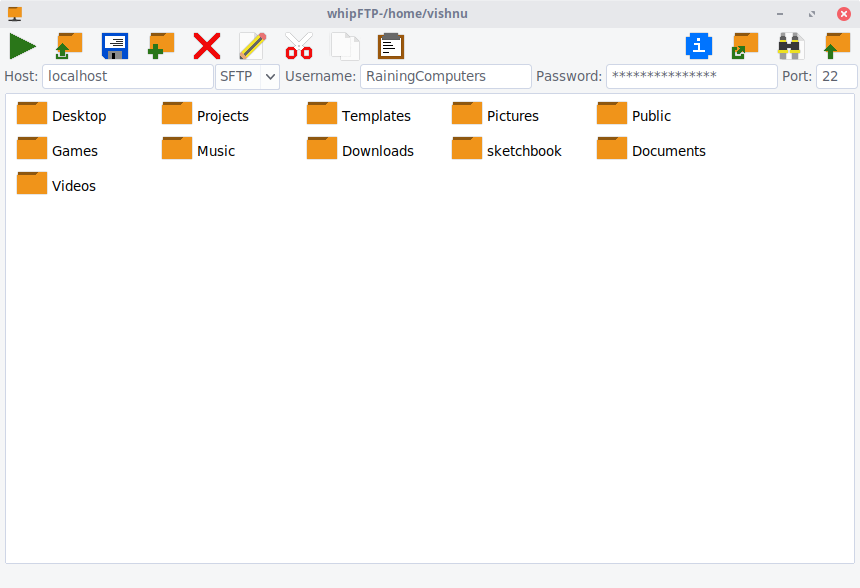
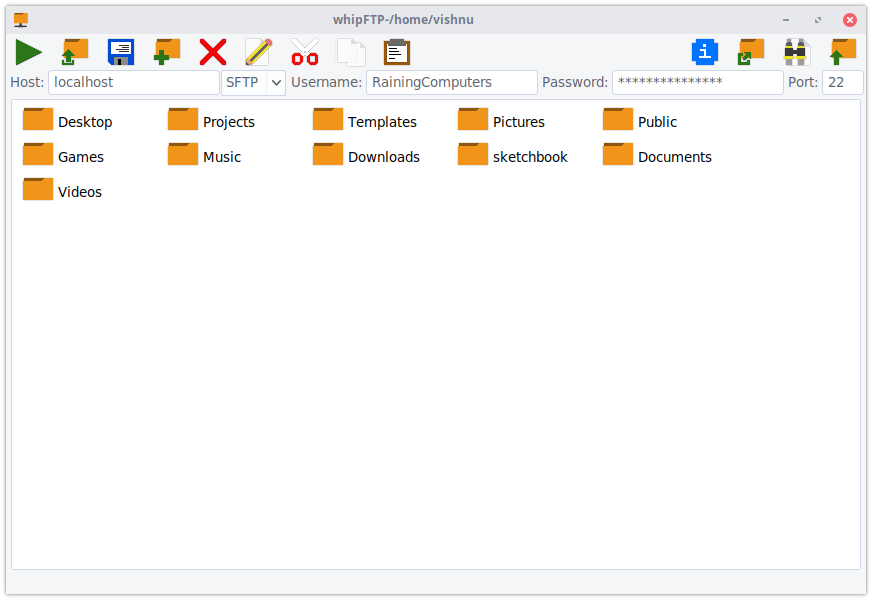
Added shadow to screenshot

Changed region(s): [[0.0, 0.0, 0.9977, 1.0]]

diff --git a/README.md b/README.md
@@ -1,9 +1,9 @@
 <div style="text-align:center">
-    <img style="filter: drop-shadow(0px 0px 5px grey);" src ="https://raw.githubusercontent.com/RainingComputers/whipFTP/master/Screenshot.png" />
+    <img src ="https://raw.githubusercontent.com/RainingComputers/whipFTP/master/Screenshot.png" />
 </div>
 
 # About
-### whipFTP is a FTP/SFTP client written in python using the tkinter GUI toolkit. Can upload, download, create, rename, copy, move and search files/folders.
+whipFTP is a FTP/SFTP client written in python using the tkinter GUI toolkit. Can upload, download, create, rename, copy, move and search files/folders.
 #### Currently supported platforms:
 + Linux
 + Windows
